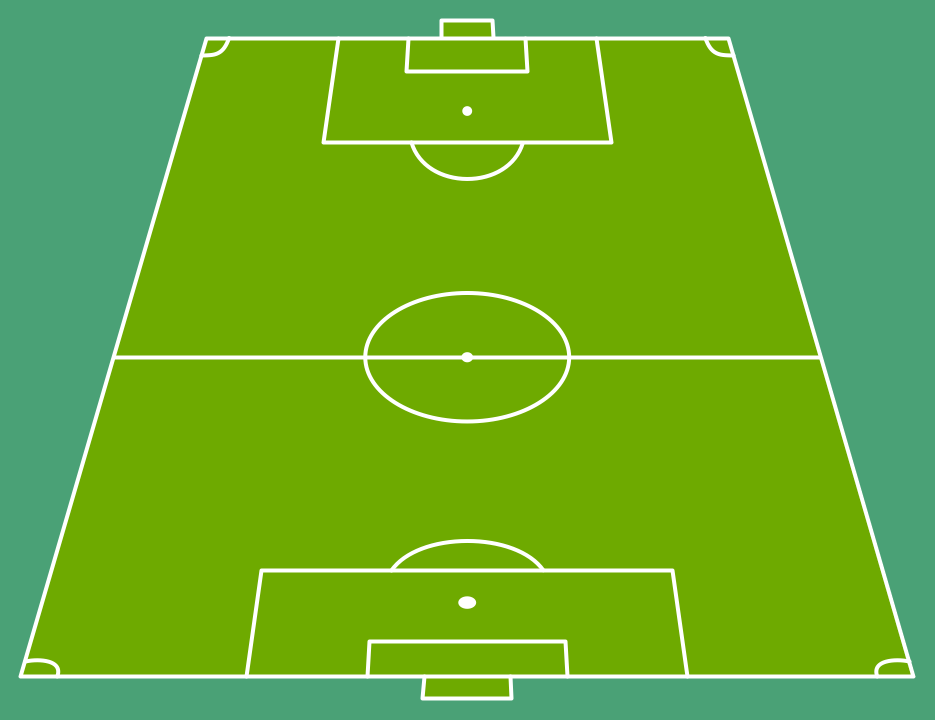
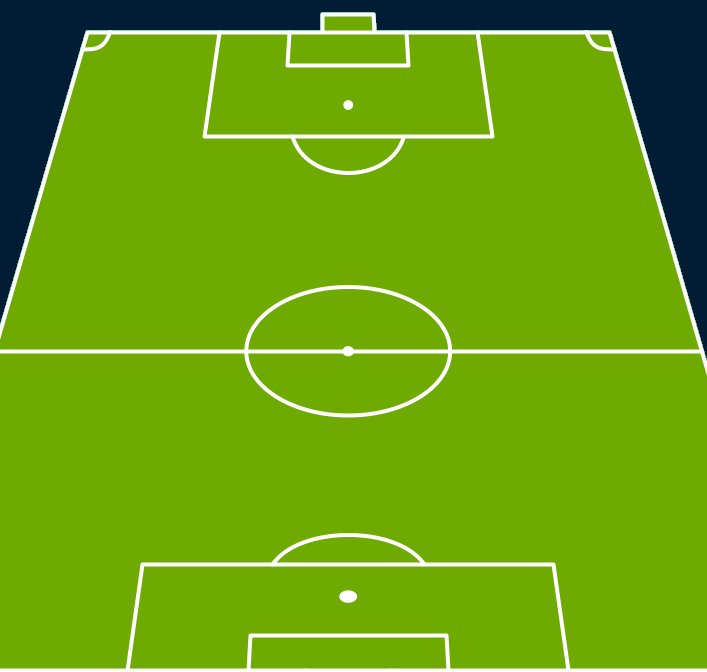
Update Field

diff --git a/contents/css/style.min.css b/contents/css/style.min.css
@@ -1,1 +1,1 @@
-#field,.container,.game_title{position:relative}*{margin:0;padding:0;outline:0;box-sizing:border-box}html{-webkit-font-smoothing:antialiased;-moz-osx-font-smoothing:grayscale}body{background-color:#f4f4f4;font-family:"Helvetica Neue",Verdana,Helvetica,Arial,sans-serif;font-size:15px;line-height:1.42;text-align:left;color:#54565B;overflow-x:hidden}.dialog .container,.player .name,.player .number{text-align:center}.container{width:100%;max-width:900px}#colorpicker{display:none}.button{display:block;background:#35a6f6;color:#fff;border:0;padding:10px;cursor:pointer}.game_title{background:red;padding:15px 0}.game_title .teamname{text-align:center;display:block}#field{height:420px;width:100%;max-width:550px;background:url(../img/field.png) center center no-repeat;background-size:contain;margin:0 auto}@media (max-width:480px){#field{height:390px}}@media (max-width:300px){#field{height:300px}}@media (max-width:320px){#field{height:248px}}.formation{position:absolute;height:100%;width:100%}.player{position:absolute;width:100px;height:80px;border:1px solid #ccc;cursor:all-scroll}@media (max-width:320px){.player{width:62px;height:50px}}@media (max-width:768px){.player{width:82px;height:60px}}.player .jersey{display:block;margin:0 auto;position:relative;width:80px;height:60px;background:url(../img/jersey.svg) no-repeat;background-size:contain}@media (max-width:320px){.player .jersey{width:40px;height:30px}}.player .number{position:absolute;top:13px;left:-6px;font-size:20px;right:0}@media (max-width:320px){.player .number{font-size:11px;padding-right:5px}}@media (max-width:768px){.player .jersey{width:50px;height:40px}.player .number{font-size:14px;left:4px;top:10px;padding-right:5px}}.player .name{position:absolute;bottom:0;left:0;right:0;font-size:14px}@media (max-width:480px){.player .name{font-size:12px}}.player .status{height:20px;width:20px;border-radius:50%;border:1px solid red;background:orange;position:absolute;left:60%;bottom:20px;display:none}@media (max-width:320px){.player .name{font-size:9px}.player .status{left:53%;bottom:12px}}.formation-442 .player-1{left:0;right:0;bottom:0;margin:0 auto}.formation-442 .player-2{bottom:24%;left:15%}.formation-442 .player-3{bottom:20%;left:35%}.formation-442 .player-4{bottom:20%;left:55%}.formation-442 .player-5{bottom:24%;left:75%}.formation-442 .player-6{bottom:48%;left:16%}.formation-442 .player-7{bottom:35%;left:43%}.formation-442 .player-8{bottom:60%;left:43%}.formation-442 .player-9{bottom:48%;left:68%}.formation-442 .player-10{bottom:80%;left:25%}.formation-442 .player-11{bottom:80%;left:70%}.menu{position:relative;height:50px;background:red}.menu ul{list-style:none}.menu ul li{display:inline-block;vertical-align:top;width:40px;height:40px;background:green}.dialog{position:absolute;top:0;left:0;bottom:0;right:0;background:#ccc;display:none;padding:10px}.dialog .container .close_btn{position:absolute;right:15px;top:15px;height:30px;width:30px;background:green}.dialog .container h3{margin-bottom:15px}.dialog .container label{font-weight:700;text-align:left}.dialog .container input[type=text],.dialog .container input[type=number]{position:relative;padding:10px;width:100%;border:1px solid #ddd;margin-bottom:10px}.dialog .container .button{width:100%}
+#field,.container,.game_title{position:relative}*{margin:0;padding:0;outline:0;box-sizing:border-box}html{-webkit-font-smoothing:antialiased;-moz-osx-font-smoothing:grayscale}body{background-color:#f4f4f4;font-family:"Helvetica Neue",Verdana,Helvetica,Arial,sans-serif;font-size:15px;line-height:1.42;text-align:left;color:#54565B;overflow-x:hidden}.dialog .container,.player .name,.player .number{text-align:center}.container{width:100%;max-width:900px}#colorpicker{display:none}.button{display:block;background:#35a6f6;color:#fff;border:0;padding:10px;cursor:pointer}.game_title{background:#002953;padding:15px 0}.game_title .teamname{text-align:center;display:block;font-weight:700;font-size:22px;color:#fff}#field{height:420px;width:100%;min-width:320px;max-width:550px;background:url(../img/field.png) center center no-repeat #002953;background-size:contain;margin:0 auto}@media (max-width:480px){#field{height:390px}}@media (max-width:350px){#field{height:350px}}@media (max-width:320px){#field{height:304px}}.formation{position:absolute;height:100%;width:100%}.player{position:absolute;width:100px;height:80px;cursor:all-scroll}@media (max-width:768px){.player{width:100px;height:60px}}@media (max-width:320px){.player{width:62px;height:50px}}.player .jersey{display:block;margin:0 auto;position:relative;width:80px;height:60px;background:url(../img/jersey.svg) no-repeat;background-size:contain}@media (max-width:320px){.player .jersey{width:40px;height:30px}}.player .number{position:absolute;top:13px;left:-6px;font-size:20px;right:0}@media (max-width:320px){.player .number{font-size:11px;padding-right:5px}}@media (max-width:768px){.player .jersey{width:50px;height:40px}.player .number{font-size:14px;left:4px;top:10px;padding-right:5px}}.player .name{position:absolute;bottom:0;left:0;right:0;font-size:14px}@media (max-width:480px){.player .name{font-size:12px}}.player .status{height:20px;width:20px;border-radius:50%;border:1px solid red;background:orange;position:absolute;left:60%;bottom:20px;display:none}@media (max-width:320px){.player .name{font-size:9px}.player .status{left:53%;bottom:12px}}.formation-442 .player-1{left:0;right:0;bottom:0;margin:0 auto}.formation-442 .player-2{bottom:24%;left:5%}.formation-442 .player-3{bottom:20%;left:25%}.formation-442 .player-4{bottom:20%;left:45%}.formation-442 .player-5{bottom:24%;left:70%}.formation-442 .player-6{bottom:48%;left:16%}.formation-442 .player-7{bottom:35%;left:43%}.formation-442 .player-8{bottom:60%;left:43%}.formation-442 .player-9{bottom:48%;left:68%}.formation-442 .player-10{bottom:80%;left:25%}.formation-442 .player-11{bottom:80%;left:70%}.menu{position:relative;height:50px;background:#fff}.menu ul{list-style:none}.menu ul li{display:inline-block;vertical-align:top;width:40px;height:40px;border:1px solid #ccc}.dialog{position:absolute;top:0;left:0;bottom:0;right:0;background:#ccc;display:none;padding:10px}.dialog .container .close_btn{position:absolute;right:15px;top:15px;height:30px;width:30px;background:green}.dialog .container h3{margin-bottom:15px}.dialog .container label{font-weight:700;text-align:left}.dialog .container input[type=text],.dialog .container input[type=number]{position:relative;padding:10px;width:100%;border:1px solid #ddd;margin-bottom:10px}.dialog .container .button{width:100%}

diff --git a/contents/style.css b/contents/style.css
@@ -35,29 +35,33 @@ body {
 
 .game_title {
   position: relative;
-  background: red;
+  background: #002953;
   padding: 15px 0; }
   .game_title .teamname {
     text-align: center;
-    display: block; }
+    display: block;
+    font-weight: 700;
+    font-size: 22px;
+    color: #fff; }
 
 #field {
   position: relative;
   height: 420px;
   width: 100%;
+  min-width: 320px;
   max-width: 550px;
-  background: url(../img/field.png) center center no-repeat;
+  background: #002953 url(../img/field.png) center center no-repeat;
   background-size: contain;
   margin: 0 auto; }
   @media (max-width: 480px) {
     #field {
       height: 390px; } }
-  @media (max-width: 300px) {
+  @media (max-width: 350px) {
     #field {
-      height: 300px; } }
+      height: 350px; } }
   @media (max-width: 320px) {
     #field {
-      height: 248px; } }
+      height: 304px; } }
 
 .formation {
   position: absolute;
@@ -68,16 +72,15 @@ body {
   position: absolute;
   width: 100px;
   height: 80px;
-  border: 1px solid #ccc;
   cursor: all-scroll; }
+  @media (max-width: 768px) {
+    .player {
+      width: 100px;
+      height: 60px; } }
   @media (max-width: 320px) {
     .player {
       width: 62px;
       height: 50px; } }
-  @media (max-width: 768px) {
-    .player {
-      width: 82px;
-      height: 60px; } }
   .player .jersey {
     display: block;
     margin: 0 auto;
@@ -148,19 +151,19 @@ body {
 
 .formation-442 .player-2 {
   bottom: 24%;
-  left: 15%; }
+  left: 5%; }
 
 .formation-442 .player-3 {
   bottom: 20%;
-  left: 35%; }
+  left: 25%; }
 
 .formation-442 .player-4 {
   bottom: 20%;
-  left: 55%; }
+  left: 45%; }
 
 .formation-442 .player-5 {
   bottom: 24%;
-  left: 75%; }
+  left: 70%; }
 
 .formation-442 .player-6 {
   bottom: 48%;
@@ -189,7 +192,7 @@ body {
 .menu {
   position: relative;
   height: 50px;
-  background: red; }
+  background: #fff; }
   .menu ul {
     list-style: none; }
     .menu ul li {
@@ -197,7 +200,7 @@ body {
       vertical-align: top;
       width: 40px;
       height: 40px;
-      background: green; }
+      border: 1px solid #ccc; }
 
 .dialog {
   position: absolute;

diff --git a/index.html b/index.html
@@ -74,21 +74,41 @@
         <div class="ui-widget-content player player-7" data-player="7">
             <span class="jersey"></span>
 
-            <span class="number">9</span>
-            <span class="name">Lex van Hees</span>
+            <span class="number"></span>
+            <span class="name"></span>
             <span class="status"></span>
         </div>
 
-        <div class="ui-widget-content player player-8">
+        <div class="ui-widget-content player player-8" data-player="8">
+            <span class="jersey"></span>
+
+            <span class="number"></span>
+            <span class="name"></span>
+            <span class="status"></span>
         </div>
 
-        <div class="ui-widget-content player player-9">
+        <div class="ui-widget-content player player-9" data-player="9">
+            <span class="jersey"></span>
+
+            <span class="number"></span>
+            <span class="name"></span>
+            <span class="status"></span>
         </div>
 
-        <div class="ui-widget-content player player-10">
+        <div class="ui-widget-content player player-10" data-player="10">
+            <span class="jersey"></span>
+
+            <span class="number"></span>
+            <span class="name"></span>
+            <span class="status"></span>
         </div>
 
-        <div class="ui-widget-content player player-11">
+        <div class="ui-widget-content player player-11" data-player="11">
+            <span class="jersey"></span>
+
+            <span class="number"></span>
+            <span class="name"></span>
+            <span class="status"></span>
         </div>
     </div>
 </div>
@@ -104,6 +124,7 @@
 <script src="contents/js/jquery-1.12.4.js"></script>
     <script src="contents/js/jquery-ui.js"></script>
 <script src="contents/js/main.js"></script>
+<script src="contents/js/jquery.ui.touch-punch.min.js"></script>
 
 <!--<script src='http://bgrins.github.io/spectrum/spectrum.js'></script>
 <link rel='stylesheet' href='http://bgrins.github.io/spectrum/spectrum.css'/>-->

diff --git a/contents/sass/_components.scss b/contents/sass/_components.scss
@@ -1,12 +1,15 @@
 
 .game_title {
   position: relative;
-  background: red;
+  background: #002953;
   padding:15px 0;
 
   .teamname {
     text-align: center;
     display: block;
+    font-weight: 700;
+    font-size: 22px;
+    color: #fff;
   }
 }
 
@@ -14,8 +17,9 @@
   position: relative;
   height: 420px;
   width: 100%;
+  min-width: 320px;
   max-width: 550px;
-  background: url(../img/field.png) center center no-repeat;
+  background: #002953 url(../img/field.png) center center no-repeat;
   background-size: contain;
   margin: 0 auto;
 
@@ -23,12 +27,12 @@
     height: 390px;
   }
 
-  @media(max-width: 300px) {
-    height: 300px;
+  @media(max-width: 350px) {
+    height: 350px;
   }
 
   @include media-phone {
-    height: 248px;
+    height: 304px;
   }
 
 }
@@ -43,17 +47,16 @@
   position: absolute;
   width: 100px;
   height: 80px;
-  border: 1px solid #ccc;
   cursor: all-scroll;
+
+  @include media-tablet {
+    width: 100px;
+    height: 60px;
+  }
 
   @include media-phone {
     width: 62px;
     height: 50px;
-  }
-
-  @include media-tablet {
-    width: 82px;
-    height: 60px;
   }
 
   .jersey {
@@ -143,22 +146,22 @@
 
   .player-2 {
     bottom: 24%;
-    left: 15%;
+    left: 5%;
   }
 
   .player-3 {
     bottom: 20%;
-    left: 35%;
+    left: 25%;
   }
 
   .player-4 {
     bottom: 20%;
-    left: 55%;
+    left: 45%;
   }
 
   .player-5 {
     bottom: 24%;
-    left: 75%;
+    left: 70%;
   }
 
   .player-6 {
@@ -195,7 +198,7 @@
   .menu {
     position: relative;
     height: 50px;
-    background: red;
+    background: #fff;
 
     ul {
       list-style: none;
@@ -205,7 +208,7 @@
         vertical-align: top;
         width: 40px;
         height: 40px;
-        background: green;
+        border: 1px solid #ccc;
       }
     }
   }

diff --git a/contents/js/jquery.ui.touch-punch.min.js b/contents/js/jquery.ui.touch-punch.min.js
@@ -1,0 +1,11 @@
+/*!
+ * jQuery UI Touch Punch 0.2.3
+ *
+ * Copyright 2011–2014, Dave Furfero
+ * Dual licensed under the MIT or GPL Version 2 licenses.
+ *
+ * Depends:
+ *  jquery.ui.widget.js
+ *  jquery.ui.mouse.js
+ */
+!function(a){function f(a,b){if(!(a.originalEvent.touches.length>1)){a.preventDefault();var c=a.originalEvent.changedTouches[0],d=document.createEvent("MouseEvents");d.initMouseEvent(b,!0,!0,window,1,c.screenX,c.screenY,c.clientX,c.clientY,!1,!1,!1,!1,0,null),a.target.dispatchEvent(d)}}if(a.support.touch="ontouchend"in document,a.support.touch){var e,b=a.ui.mouse.prototype,c=b._mouseInit,d=b._mouseDestroy;b._touchStart=function(a){var b=this;!e&&b._mouseCapture(a.originalEvent.changedTouches[0])&&(e=!0,b._touchMoved=!1,f(a,"mouseover"),f(a,"mousemove"),f(a,"mousedown"))},b._touchMove=function(a){e&&(this._touchMoved=!0,f(a,"mousemove"))},b._touchEnd=function(a){e&&(f(a,"mouseup"),f(a,"mouseout"),this._touchMoved||f(a,"click"),e=!1)},b._mouseInit=function(){var b=this;b.element.bind({touchstart:a.proxy(b,"_touchStart"),touchmove:a.proxy(b,"_touchMove"),touchend:a.proxy(b,"_touchEnd")}),c.call(b)},b._mouseDestroy=function(){var b=this;b.element.unbind({touchstart:a.proxy(b,"_touchStart"),touchmove:a.proxy(b,"_touchMove"),touchend:a.proxy(b,"_touchEnd")}),d.call(b)}}}(jQuery);
